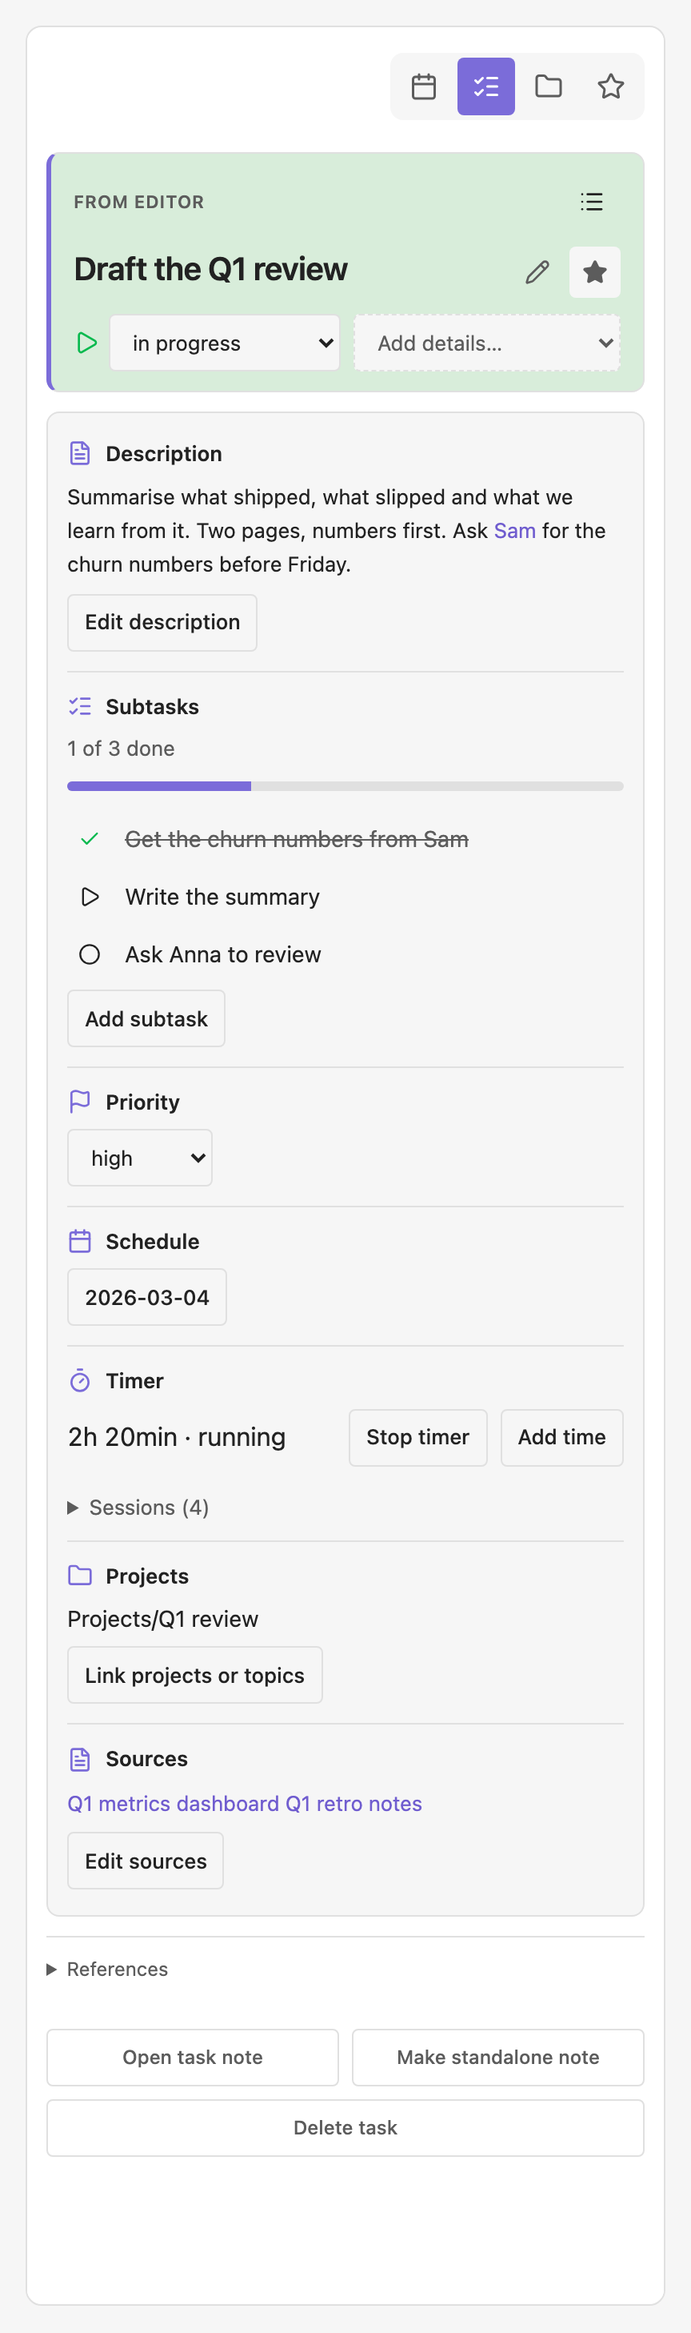
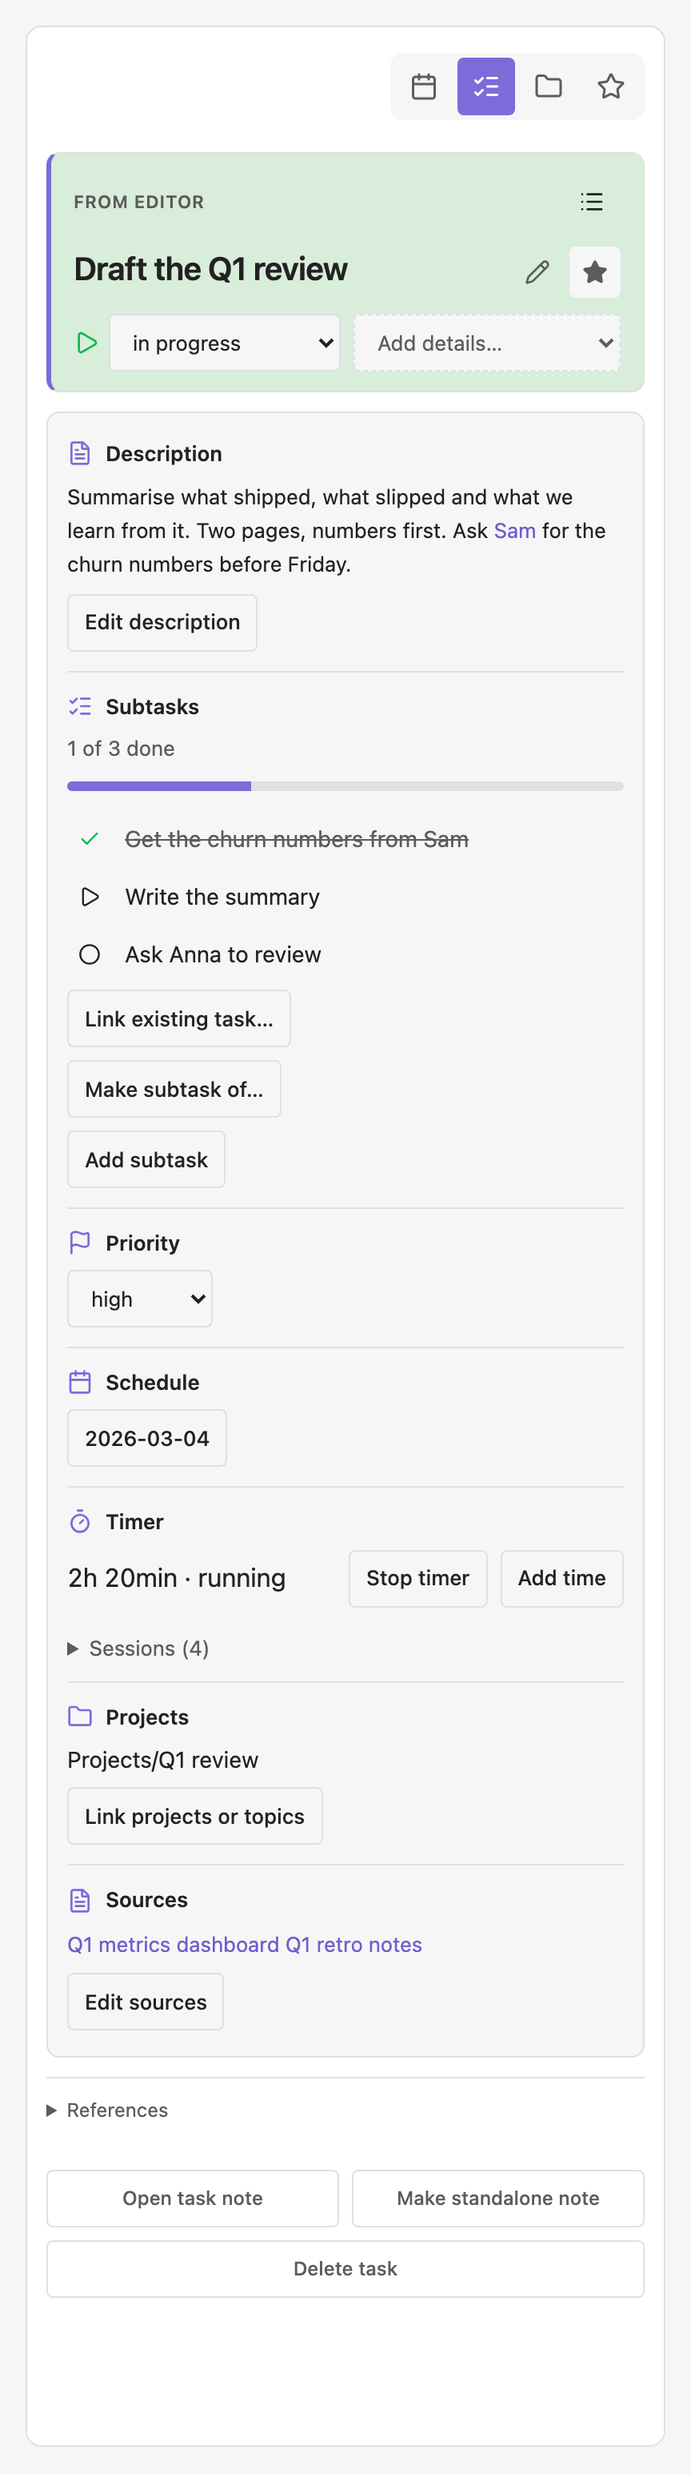
Plain subtask rows on phones; link existing tasks as subtasks from the panel

diff --git a/src/service.ts b/src/service.ts
@@ -227,17 +227,29 @@ export class TaskService {
       await this.repo.update(parentId, t => ({ ...t, subtasks: t.subtasks.filter(link => !drop(link)) })); return true;
     } catch { return false; }
   }
-  /** Adds a task to its parent's `subtasks` list. Nothing happens for a recurring task, a task that cannot be found, or a parent that is the task's own descendant. */
-  private async linkSubtask(parentId: string, childId: string): Promise<boolean> {
-    const file = this.repo.taskFile(childId); if (!file || parentId === childId) return false;
+  /** Adds a task to its parent's `subtasks` list and says what happened: nothing changes for a recurring task, a task that cannot be found, itself, or a parent that is the task's own descendant. A task has one parent, so it leaves the list it was in. */
+  private async linkSubtask(parentId: string, childId: string): Promise<"linked" | "already" | "recurring" | "loop" | "missing"> {
+    const file = this.repo.taskFile(childId); if (!file) return "missing"; if (parentId === childId) return "loop";
     try {
-      const [parent, child] = [await this.repo.read(parentId), await this.repo.read(childId)]; if (parent.recurring || child.recurring) return false;
-      for (let up: Task | null = parent, depth = 0; up && depth < 64; depth++) { up = await this.repo.parentOf(up.id); if (up?.id === childId) return false; }
-      // A task has one parent: it leaves the list it was in.
+      const [parent, child] = [await this.repo.read(parentId), await this.repo.read(childId)]; if (parent.recurring || child.recurring) return "recurring";
+      for (let up: Task | null = parent, depth = 0; up && depth < 64; depth++) { up = await this.repo.parentOf(up.id); if (up?.id === childId) return "loop"; }
       const current = await this.repo.parentOf(childId); if (current && current.id !== parentId) await this.dropLinks(current.id, link => this.repo.fileOfLink(link) === file);
-      const link = this.repo.linkOf(file); if (parent.subtasks.includes(link)) return false;
-      await this.repo.update(parentId, t => ({ ...t, subtasks: [...t.subtasks, link] })); return true;
-    } catch { return false; }
+      const link = this.repo.linkOf(file); if (parent.subtasks.includes(link)) return "already";
+      await this.repo.update(parentId, t => ({ ...t, subtasks: [...t.subtasks, link] })); return "linked";
+    } catch { return "missing"; }
+  }
+  /** Makes `childId` a subtask of `parentId` from the panel, without moving any todo line (the nesting in a note is only read when the person changes it). */
+  async makeSubtask(parentId: string, childId: string): Promise<void> {
+    const result = await this.linkSubtask(parentId, childId);
+    if (result === "recurring") throw new Error("Recurring tasks cannot be parents or subtasks.");
+    if (result === "loop") throw new Error("A task cannot be a subtask of itself or of one of its own subtasks.");
+    if (result === "missing") throw new Error("The task note could not be found.");
+    if (result === "already") new Notice("It is already a subtask of that task."); else this.changed();
+  }
+  /** Takes a task out of its parent's list; the todo lines stay where they are. */
+  async detachSubtask(childId: string): Promise<void> {
+    const file = this.repo.taskFile(childId); const parent = await this.repo.parentOf(childId); if (!file || !parent) return;
+    await this.dropLinks(parent.id, link => this.repo.fileOfLink(link) === file); this.changed();
   }
   /**
    * Keeps the parents' `subtasks` lists in step with how todos are nested in a note: `before` and `after` map each linked todo to the todo it sits under.
@@ -249,7 +261,7 @@ export class TaskService {
       const was = before.get(id) ?? null; const now = after.get(id) ?? null; if (was === now) continue;
       const file = this.repo.taskFile(id);
       if (was && file && await this.dropLinks(was, link => this.repo.fileOfLink(link) === file)) changed++;
-      if (now && await this.linkSubtask(now, id)) changed++;
+      if (now && await this.linkSubtask(now, id) === "linked") changed++;
     }
     return changed;
   }

diff --git a/src/tests/subtasksView.dom.test.ts b/src/tests/subtasksView.dom.test.ts
@@ -5,7 +5,8 @@ import { OrganizedInspectorView } from "../view";
 import { harness } from "./harness";
 import { installObsidianDom } from "./__mocks__/obsidianDom";
 import { parseTasks } from "../codec";
-import { Notice } from "./__mocks__/obsidian";
+import { Modal, Notice } from "./__mocks__/obsidian";
+import type { TaskPicker } from "../modals";
 
 installObsidianDom();
 const flush = async () => { for (let i = 0; i < 100; i++) await Promise.resolve(); };
@@ -40,6 +41,20 @@ describe("subtasks in the Task tab", () => {
       const first = f.view.render(); await flush(); const second = f.view.render(); await flush(); release(); await Promise.all([first, second]); await flush();
       expect(f.view.contentEl.querySelectorAll(".organized-task-hero")).toHaveLength(1);
     }
+  });
+  it("links an existing task from the panel in both directions, and removes a task from its parent", async () => {
+    const f = await fixture(); const loner = await f.owner.repo.create("Loner"); const finished = await f.owner.repo.create("Finished"); await f.owner.repo.update(finished.id, t => ({ ...t, status: "completed" }));
+    const choose = async (title: string) => { const picker = Modal.instances.at(-1) as TaskPicker; expect((picker as any).placeholder).toBe(title); picker.onChooseSuggestion(picker.tasks.find(t => t.title === "Loner")!); picker.onChooseSuggestion("typed" as any); picker.close(); await flush(); return picker; };
+    await f.show(f.parent.id); const tasks = () => (Modal.instances.at(-1) as TaskPicker).tasks.map(t => t.title).sort();
+    const link = Array.from(f.view.contentEl.querySelectorAll<HTMLButtonElement>("button")).find(b => b.textContent === "Link existing task…")!; link.click(); await flush();
+    expect(tasks()).not.toContain("Finished"); expect(tasks()).not.toContain("Parent"); expect(tasks()).not.toContain("Sub B"); expect(tasks()).toContain("Loner"); await choose("Choose a task to make a subtask of this one");
+    expect((await f.owner.repo.read(f.parent.id)).subtasks).toContain("[[Loner]]");
+    await f.show(loner.id); expect(Array.from(f.view.contentEl.querySelectorAll("button")).some(b => b.textContent === "Make subtask of…")).toBe(false);
+    const remove = Array.from(f.view.contentEl.querySelectorAll<HTMLButtonElement>("button")).find(b => b.textContent === "Remove from parent")!; remove.click(); await flush(); expect((await f.owner.repo.read(f.parent.id)).subtasks).not.toContain("[[Loner]]");
+    await f.show(loner.id); f.view.module = "Subtasks"; await f.view.render(); await flush();
+    const make = Array.from(f.view.contentEl.querySelectorAll<HTMLButtonElement>("button")).find(b => b.textContent === "Make subtask of…")!; make.click(); await flush(); expect(tasks()).not.toContain("Loner");
+    const picker = Modal.instances.at(-1) as TaskPicker; picker.onChooseSuggestion(picker.tasks.find(t => t.title === "Parent")!); picker.close(); await flush(); expect((await f.owner.repo.read(f.parent.id)).subtasks).toContain("[[Loner]]");
+    expect(Array.from(f.view.contentEl.querySelectorAll("button")).some(b => b.textContent === "Remove from parent")).toBe(true);
   });
   it("shows an empty Subtasks card on request, and adds a subtask under the todo in the open note", async () => {
     const f = await fixture(); const loner = await f.owner.repo.create("Loner"); await f.show(loner.id); expect(f.view.contentEl.textContent).not.toContain("Add subtask");

diff --git a/src/view.ts b/src/view.ts
@@ -547,7 +547,7 @@ export class OrganizedInspectorView extends ItemView {
   }
   /** The subtasks of a task with how many are done, each with a toggle and a way in, and a button to add one under the todo in the open note. */
   private async subtaskCard(details: HTMLElement, task: Task): Promise<void> {
-    const children = await this.owner.repo.subtasksOf(task); if (!children.length && this.module !== "Subtasks") return;
+    const children = await this.owner.repo.subtasksOf(task); const parentTask = await this.owner.repo.parentOf(task.id); if (!children.length && !parentTask && this.module !== "Subtasks") return;
     const card = this.card(details, "Subtasks", "list-checks"); const counted = children.filter(child => child.status !== "canceled"); const done = counted.filter(child => child.status === "completed").length;
     if (counted.length) {
       card.createDiv({ cls: "organized-muted", text: `${done} of ${counted.length} done` });
@@ -563,6 +563,14 @@ export class OrganizedInspectorView extends ItemView {
     }
     // Every subtask is done but the parent is not: say so, and offer the step that is left.
     if (counted.length && done === counted.length && task.status !== "completed" && !task.recurring) this.button(card, "Complete parent", () => this.owner.run(() => this.owner.service.status(task.id, "completed", this.owner.context?.line.id === task.id ? this.owner.context : undefined))).addClass("organized-complete-parent");
+    // Tasks that can take part in a relation with this one: open, not recurring, not this task, and not one of its subtasks or ancestors.
+    const candidates = async (own: Task[]) => (await this.owner.repo.list()).filter(t => t.id !== task.id && !t.recurring && t.status !== "completed" && t.status !== "canceled" && !own.some(o => o.id === t.id));
+    const pick = (title: string, tasks: Task[], choose: (picked: Task) => Promise<void>) => {
+      const picker = new TaskPicker(this.app, tasks, async choice => { if (typeof choice === "object" && "id" in choice) await choose(choice); }, "", false, false); picker.setPlaceholder(title); picker.open();
+    };
+    this.button(card, "Link existing task…", async () => pick("Choose a task to make a subtask of this one", await candidates(children), picked => this.owner.run(() => this.owner.service.makeSubtask(task.id, picked.id))));
+    if (parentTask) this.button(card, "Remove from parent", () => this.owner.run(() => this.owner.service.detachSubtask(task.id)));
+    else this.button(card, "Make subtask of…", async () => pick("Choose the task this one belongs under", await candidates(children), picked => this.owner.run(() => this.owner.service.makeSubtask(picked.id, task.id))));
     this.button(card, "Add subtask", async () => {
       const source = this.owner.taskSourceEditor(); const lines = source ? parseTasks(source.editor.getValue()).filter(t => t.id === task.id) : [];
       if (!source || lines.length !== 1) throw new Error("Open the note that holds this todo once, then add the subtask.");

diff --git a/styles.css b/styles.css
@@ -604,12 +604,13 @@ SOFTWARE.
 .organized-progress-bar { block-size: 100%; inline-size: var(--organized-progress, 0%); background: var(--interactive-accent); }
 .organized-progress-bar.organized-progress-complete { background: var(--color-green, #2f9e44); }
 .organized-subtask { display: flex; align-items: center; gap: var(--size-4-2); min-inline-size: 0; }
-.organized-subtask-toggle, .organized-subtask-title { background: none; border: 0; box-shadow: none; padding: 0; color: inherit; cursor: pointer; }
-.organized-subtask-toggle { display: inline-flex; align-items: center; justify-content: center; min-inline-size: 28px; min-block-size: 28px; }
+/* Same specificity as the panel's own buttons, so a mobile theme's pill styling for every button does not turn a row into two blobs. */
+.organized-view .organized-panel button.organized-subtask-toggle, .organized-view .organized-panel button.organized-subtask-title { appearance: none; display: inline-flex; align-items: center; block-size: auto; min-block-size: 28px; margin: 0; padding: 0; border: 0; border-radius: 0; background: transparent; box-shadow: none; color: inherit; font-size: inherit; font-weight: normal; cursor: pointer; }
+.organized-view .organized-panel button.organized-subtask-toggle { justify-content: center; flex: 0 0 28px; inline-size: 28px; }
 .organized-subtask-toggle svg { inline-size: 1em; block-size: 1em; }
-.organized-subtask[data-status="completed"] .organized-subtask-toggle { color: var(--color-green, #2f9e44); }
-.organized-subtask[data-status="completed"] .organized-subtask-title, .organized-subtask[data-status="canceled"] .organized-subtask-title { color: var(--text-muted); text-decoration: line-through; }
-.organized-subtask-title { text-align: start; overflow-wrap: anywhere; min-inline-size: 0; }
+.organized-view .organized-panel .organized-subtask[data-status="completed"] button.organized-subtask-toggle { color: var(--color-green, #2f9e44); }
+.organized-view .organized-panel .organized-subtask[data-status="completed"] button.organized-subtask-title, .organized-view .organized-panel .organized-subtask[data-status="canceled"] button.organized-subtask-title { color: var(--text-muted); text-decoration: line-through; }
+.organized-view .organized-panel button.organized-subtask-title { text-align: start; overflow-wrap: anywhere; min-inline-size: 0; flex: 1 1 auto; }
 .organized-symbol { display: inline-flex; align-items: center; gap: 3px; vertical-align: middle; color: var(--text-muted); }
 .organized-symbol-icon { display: inline-flex; }
 .organized-symbol-icon svg { inline-size: 1em; block-size: 1em; }

diff --git a/src/tests/subtasks.dom.test.ts b/src/tests/subtasks.dom.test.ts
@@ -84,6 +84,21 @@ describe("links to task notes", () => {
   });
 });
 
+describe("linking tasks from the panel", () => {
+  it("makes a task a subtask of another, once, and says why it cannot", async () => {
+    const f = await fixture(); await f.service.makeSubtask(f.parent.id, f.a.id); expect(await f.subtasks(f.parent.id)).toEqual(["[[Sub A]]"]);
+    Notice.instances.length = 0; await f.service.makeSubtask(f.parent.id, f.a.id); expect(String(Notice.instances.at(-1)!.message)).toContain("already a subtask");
+    await f.service.makeSubtask(f.other.id, f.a.id); expect(await f.subtasks(f.parent.id)).toEqual([]); expect(await f.subtasks(f.other.id)).toEqual(["[[Sub A]]"]);
+    await expect(f.service.makeSubtask(f.a.id, f.a.id)).rejects.toThrow("cannot be a subtask of itself"); await expect(f.service.makeSubtask(f.a.id, f.other.id)).rejects.toThrow("cannot be a subtask of itself");
+    const recurring = await f.make("Repeats", { recurring: true }); await expect(f.service.makeSubtask(f.parent.id, recurring.id)).rejects.toThrow("Recurring tasks cannot");
+    await expect(f.service.makeSubtask(f.parent.id, "missing12345")).rejects.toThrow("could not be found");
+  });
+  it("takes a task out of its parent's list, and does nothing for one without a parent", async () => {
+    const f = await fixture(); await f.service.makeSubtask(f.parent.id, f.a.id); await f.service.detachSubtask(f.a.id); expect(await f.subtasks(f.parent.id)).toEqual([]);
+    await f.service.detachSubtask(f.a.id); await f.service.detachSubtask("missing12345");
+  });
+});
+
 describe("keeping the lists right when tasks are renamed, deleted and repaired", () => {
   it("renames a subtask's link when its note is renamed after a new title", async () => {
     const f = await fixture(); await f.service.syncSubtasks(new Map(), new Map([[f.a.id, f.parent.id], [f.b.id, f.parent.id]]));

diff --git a/README.md b/README.md
@@ -120,7 +120,7 @@ Run **Organized: Convert unchecked todos to tasks** on a regular note to convert
 
 Each canonical task is a note in `Tasks/` named after its todo (`Write the Q1 report.md`; a counter is added when a name is taken, and names are unique across the vault so `[[links]]` stay unambiguous), identified by the `id` in its properties, never by its file name, so renaming the note by hand is safe. It has its properties in standard YAML and the description as the note text, followed by an optional `## Sources` heading, so the note reads naturally even without the plugin. Occurrences contain `<!--organized:<id>-->`. A copied ID remains the same task. Selected properties render read-only in Reading/Live Preview; no generated dates/properties are written into occurrence source. The inspector edits the canonical note.
 
-**Subtasks.** Indent a linked todo under another todo (Tab, as in any Obsidian list) and it becomes that todo's subtask: the same picker asks which task it is, and the parent's task note lists it in its properties as a link (`subtasks: ["[[Buy milk]]"]`), so the relation reads naturally even without the plugin. The nesting in the note is the truth: indenting, outdenting, moving or deleting a todo line updates the lists a moment after you stop typing, and **Organized: Repair subtask links in this note** redoes it for a note edited somewhere Organized was not running. **Organized: Add subtask** inserts an empty indented todo under the one at the cursor. Turn on **Subtask progress** under Rendered task properties to see `2/3` beside a parent (gray at none, accent partway, green when all are done; canceled subtasks are not counted); the Task tab shows a **Subtasks** card with the same progress, a toggle per subtask, **Add subtask**, and a *Part of* link from a subtask back to its parent. Completing a parent completes its subtasks that are still open or in progress, and canceling it cancels them; done and canceled subtasks are never changed, reopening a parent changes nothing, and a notice with **Undo** names what changed. When the last open subtask is done nothing happens to the parent, but its progress turns green and the Task tab offers **Complete parent**. Forwarding or scheduling a parent (the `[>]` and `[<]` markers, the panel, and the automatic carry-over to today) takes the subtasks that are still open or in progress along, indented under it in the new note; done and canceled ones stay behind as the record. A subtask moved on its own goes under its parent when the new note has it. Sorting keeps subtasks among their own siblings. Recurring tasks cannot be parents or subtasks. A todo nested under a plain todo, or typed as **Keep as regular todo**, is not a subtask.
+**Subtasks.** Indent a linked todo under another todo (Tab, as in any Obsidian list) and it becomes that todo's subtask: the same picker asks which task it is, and the parent's task note lists it in its properties as a link (`subtasks: ["[[Buy milk]]"]`), so the relation reads naturally even without the plugin. The nesting in the note is the truth: indenting, outdenting, moving or deleting a todo line updates the lists a moment after you stop typing, and **Organized: Repair subtask links in this note** redoes it for a note edited somewhere Organized was not running. **Organized: Add subtask** inserts an empty indented todo under the one at the cursor. Turn on **Subtask progress** under Rendered task properties to see `2/3` beside a parent (gray at none, accent partway, green when all are done; canceled subtasks are not counted); the Task tab shows a **Subtasks** card with the same progress, a toggle per subtask, **Add subtask**, a *Part of* link from a subtask back to its parent, and the buttons **Link existing task…**, **Make subtask of…** and **Remove from parent**, which record the relation in the properties without moving any todo line. Completing a parent completes its subtasks that are still open or in progress, and canceling it cancels them; done and canceled subtasks are never changed, reopening a parent changes nothing, and a notice with **Undo** names what changed. When the last open subtask is done nothing happens to the parent, but its progress turns green and the Task tab offers **Complete parent**. Forwarding or scheduling a parent (the `[>]` and `[<]` markers, the panel, and the automatic carry-over to today) takes the subtasks that are still open or in progress along, indented under it in the new note; done and canceled ones stay behind as the record. A subtask moved on its own goes under its parent when the new note has it. Sorting keeps subtasks among their own siblings. Recurring tasks cannot be parents or subtasks. A todo nested under a plain todo, or typed as **Keep as regular todo**, is not a subtask.
 
 In **Settings → Task storage**, **Keep completed tasks (days)** optionally sets retention from the date a task is completed or canceled. It defaults to `0` (disabled). When enabled, cleanup runs while opening today's daily note: linked checkboxes are unlinked and the canonical task files move to Obsidian's trash. Open/in-progress, recurring, and legacy completed tasks without a recorded completion date are preserved. Keep a vault backup and confirm Obsidian's trash preference before enabling automatic cleanup.
 

diff --git a/CHANGELOG.md b/CHANGELOG.md
@@ -2,6 +2,7 @@
 
 ## Unreleased
 
+- **Subtasks in the panel.** The Subtasks card no longer picks up a phone theme's pill-shaped button styling: each subtask is a plain row with a round status toggle and its title. New buttons link tasks from the Task tab without touching any note: **Link existing task…** (choose an open task to become a subtask of this one), **Make subtask of…** (choose the parent for this task) and **Remove from parent**. A task that is a subtask now always shows the card, and a task cannot be made a subtask of itself, of one of its own subtasks, or when it is recurring.
 - Documentation and the onboarding card now describe subtasks: the feature table, the `[x]`, `[-]`, `[>]` and `[<]` marker rows, and the onboarding step about growing a todo.
 - **Subtasks (third part): forwarding and scheduling a parent.** Forwarding (`[>]`, automatic carry-over to today) or scheduling (`[<]`, the panel) a todo takes its subtasks that are still open or in progress along: they get the new date and a movement entry, their lines in the old note turn into the forwarded or scheduled marker, and in the new note they sit indented under the parent. Done and canceled subtasks stay in the old note as the record (they still count in the parent's progress); a subtask below a done one goes under the nearest subtask that moved. A subtask forwarded or scheduled on its own goes under its parent when the new note has the parent, and at the end of the section otherwise; its place under the parent stays in the parent's properties. A manual move says what moved, with **Undo**; one subtask that cannot move is named and the rest still go.
 - **Subtasks (second part): completing or canceling a parent.** Completing a todo now completes the subtasks under it that are still open or in progress (a running timer stops and its time is kept); canceling it cancels them. Done and canceled subtasks are never changed, subtasks below a done subtask are reached, and reopening or starting a parent changes nothing. One notice names the subtasks and has **Undo**, which puts the subtasks (not the parent) back. When every subtask is done but the parent is not, the Subtasks card offers **Complete parent**. Forwarding and scheduling a parent follow in the next beta.

diff --git a/docs/testing.md b/docs/testing.md
@@ -169,3 +169,4 @@ On a **copy** of a vault: open **Retire tasks…** and try each combination (lin
 10. Complete the last open subtask by hand: the parent stays open, `n/n` turns green, and the Task tab shows **Complete parent**.
 11. Forward a parent that has an open, a running and a done subtask (put your cursor on it and type `[>]`, or open today's note after a day): tomorrow's note shows the parent with the open and running subtasks indented under it, the done one stays in the old note, the old lines show the forwarded marker, and the notice has **Undo**.
 12. Forward one subtask on its own: it lands under its parent if tomorrow's note has the parent, otherwise at the end of the section, and its place in the parent's `subtasks` list does not change.
+13. In the Task tab of a task, press **Link existing task…** and choose another open task: it appears as a subtask (the parent's `subtasks` list gains its link) and no todo line moves. On a loose task choose **Add details… → Subtasks → Make subtask of…**; on a subtask press **Remove from parent**. On a phone-sized panel the subtask rows must look like plain rows, not filled pills.
